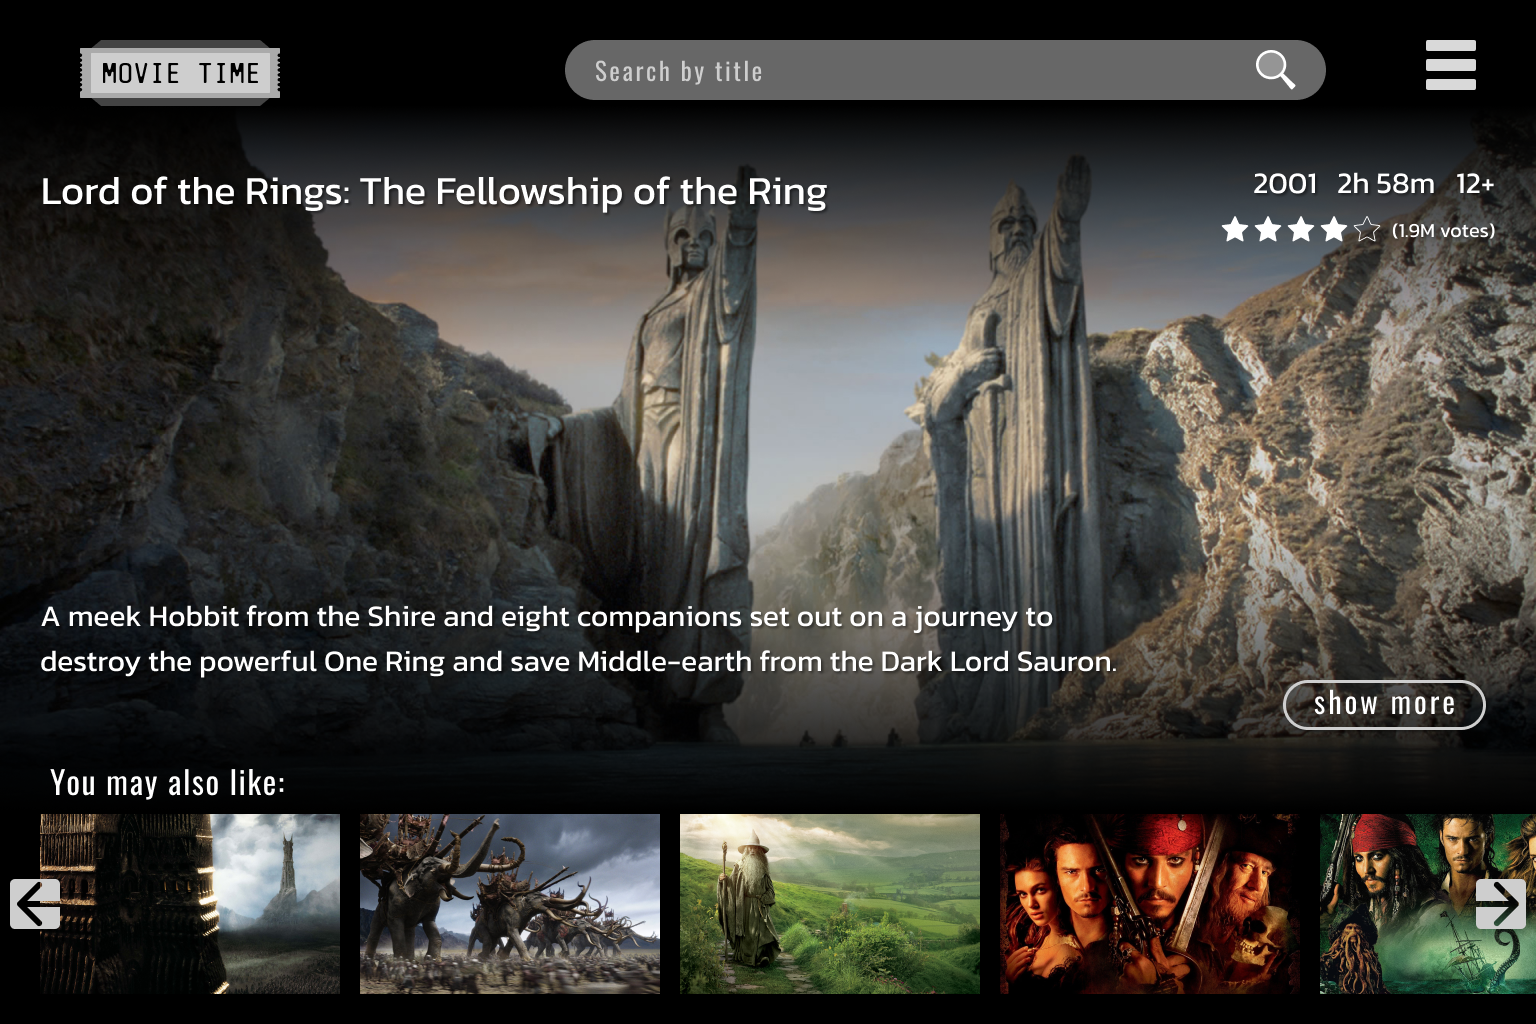
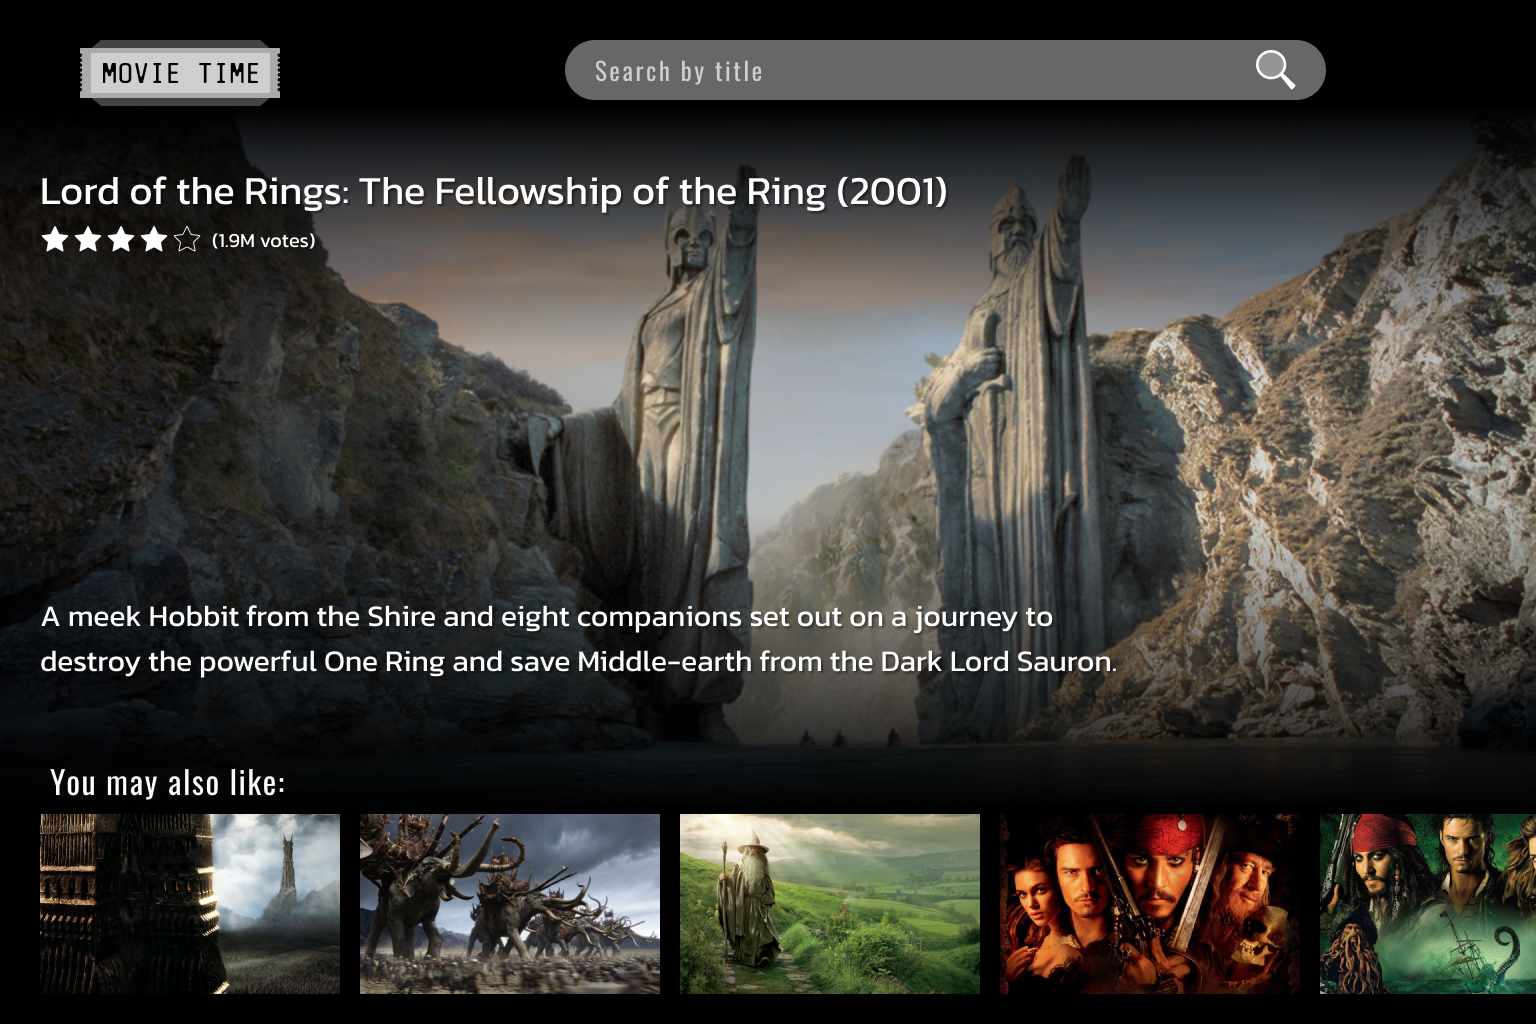
Fix minor issues

diff --git a/src/App.jsx b/src/App.jsx
@@ -11,7 +11,7 @@ export default function App() {
 		const topRatedMovies = await Movies.fetchTopRated();
 		if (topRatedMovies.length > 0) {
 			setCurrentMovie(topRatedMovies[0]);
-			// getRecommendedMovies(currentMovie.id);
+			setSearchMode(false);
 		}
 	}
 
@@ -19,6 +19,7 @@ export default function App() {
 		const recommendedMovies = await Movies.fetchRecommended(id);
 		if (recommendedMovies.length > 0) {
 			setRecommended(recommendedMovies);
+			setSearchMode(false);
 		}
 	}
 
@@ -43,7 +44,7 @@ export default function App() {
 	useEffect(() => {
 		if (currentMovie) {
 			getRecommendedMovies(currentMovie.id);
-			setSearchMode(false);
+			setTitleSearch("");
 		}
 	}, [currentMovie]);
 
@@ -53,7 +54,11 @@ export default function App() {
 
 	return (
 		<div className="app">
-			<Header searchTitle={setTitleSearch} query={titleSearch} />
+			<Header
+				searchTitle={setTitleSearch}
+				query={titleSearch}
+				changeSearchMode={setSearchMode}
+			/>
 			{searchMode && searchResult && (
 				<SearchResults movies={searchResult} changeMovie={setCurrentMovie} />
 			)}

diff --git a/src/components/Header/Header.jsx b/src/components/Header/Header.jsx
@@ -4,7 +4,11 @@ import Searchbar from "../Searchbar/Searchbar";
 
 import s from "./style.module.scss";
 
-export function Header({ searchTitle, query }) {
+export function Header({ searchTitle, query, changeSearchMode }) {
+	function returnToMainPage() {
+		changeSearchMode(false);
+		searchTitle("");
+	}
 	return (
 		<>
 			<header className={s.header}>
@@ -12,9 +16,10 @@ export function Header({ searchTitle, query }) {
 					className={s.header__logo}
 					src={logo}
 					alt="Logo of Movie Time app"
+					onClick={returnToMainPage}
 				/>
 				<Searchbar searchTitle={searchTitle} query={query} />
-				<img className={s.header__menu_icon} src={menuClosedIcon} alt="" />
+				{/* <img className={s.header__menu_icon} src={menuClosedIcon} alt="" /> */}
 			</header>
 		</>
 	);

diff --git a/src/components/SearchResults/style.module.scss b/src/components/SearchResults/style.module.scss
@@ -4,9 +4,11 @@
   max-height: 90%;
 
   display: grid;
-  grid-template-columns: repeat(auto-fit, minmax(200px, 1fr));
+  grid-template-columns: repeat(auto-fill, minmax(200px, 1fr));
+  // justify-content: center;
+  // grid-template-columns: repeat(auto-fill, 200px);
+  justify-content: start;
   grid-template-rows: auto;
-  justify-content: center;
   justify-items: start;
   align-items: start;
   gap: 5rem 6.25rem;

diff --git a/src/components/Searchbar/style.module.scss b/src/components/Searchbar/style.module.scss
@@ -7,6 +7,10 @@
   width: 40%;
   height: 3.75rem;
 
+    @media screen and (max-width:1024px) {
+      width: 60%;
+    }
+
     @media screen and (max-width:950px) {
       margin-inline: 2rem;
     }

diff --git a/README.md b/README.md
@@ -2,8 +2,6 @@
 
 _Movie Time_ is a web app that may help you find interesting movies.
 
-**Project is not done yet**
-
 ## Table of Contents
 
 - [Preview](#features)
@@ -29,6 +27,7 @@ Mobile:
 
 - on load, display the most popular movie
 - display movies similar to the currently selected one
+- search by title
 
 All the data come from [**The Movie Database (TMDB) API**](https://developer.themoviedb.org/docs)
 
@@ -43,7 +42,6 @@ All the data come from [**The Movie Database (TMDB) API**](https://developer.the
 ## Planned Features
 
 - on load, display a _randomly picked_ movie and similar productions below
-- searching by title
 - displaying list of the newest, most popular or upcoming movies
 - searching by genre
 - browsing TV shows
